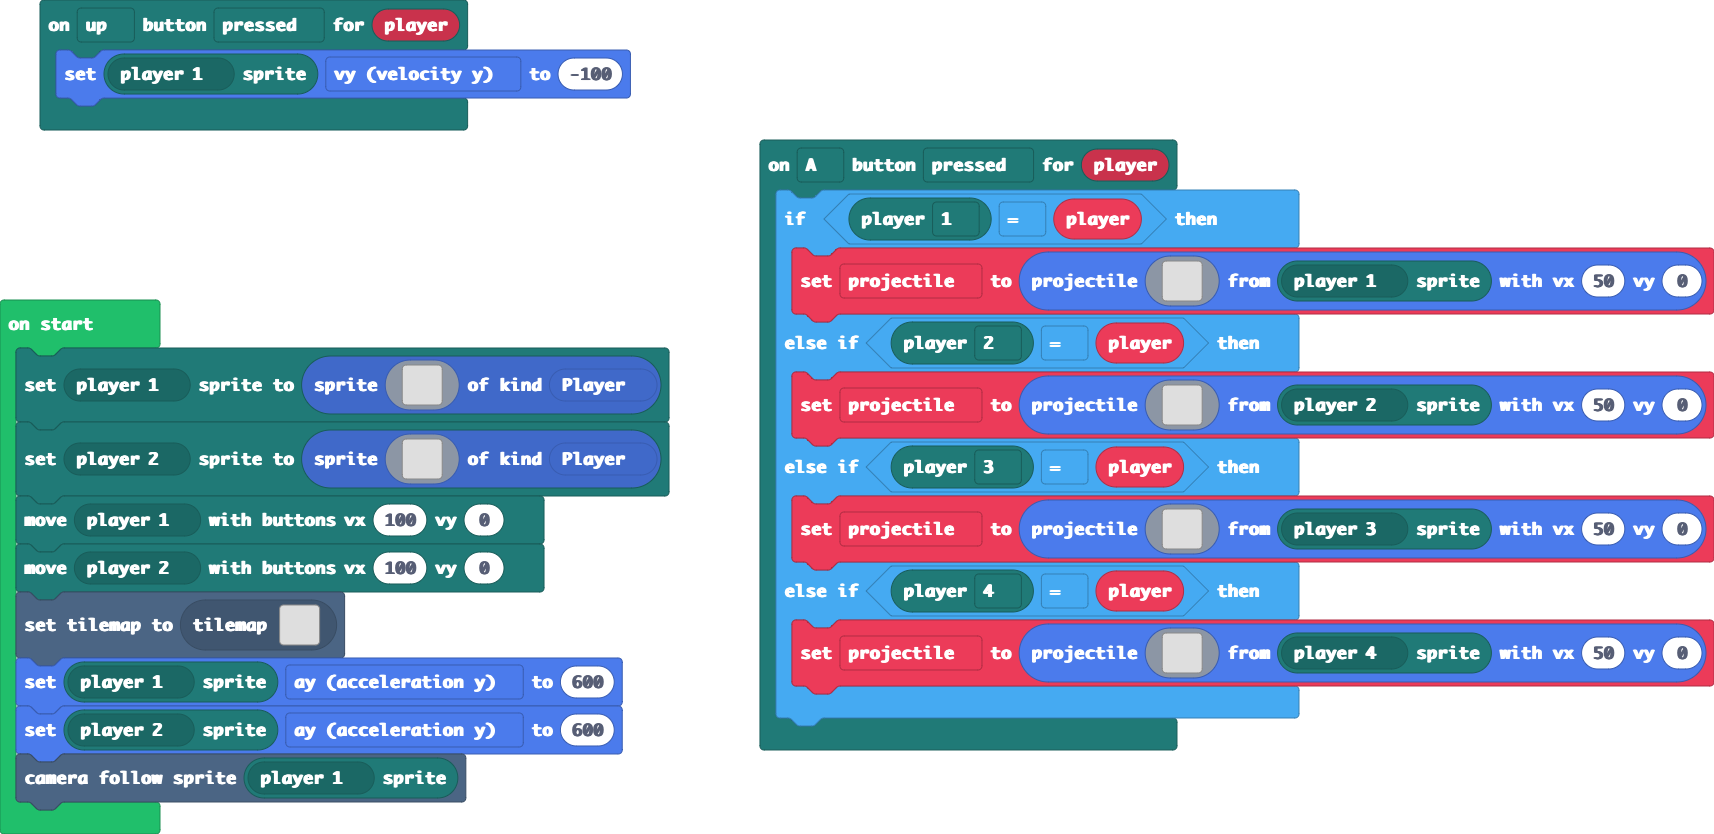
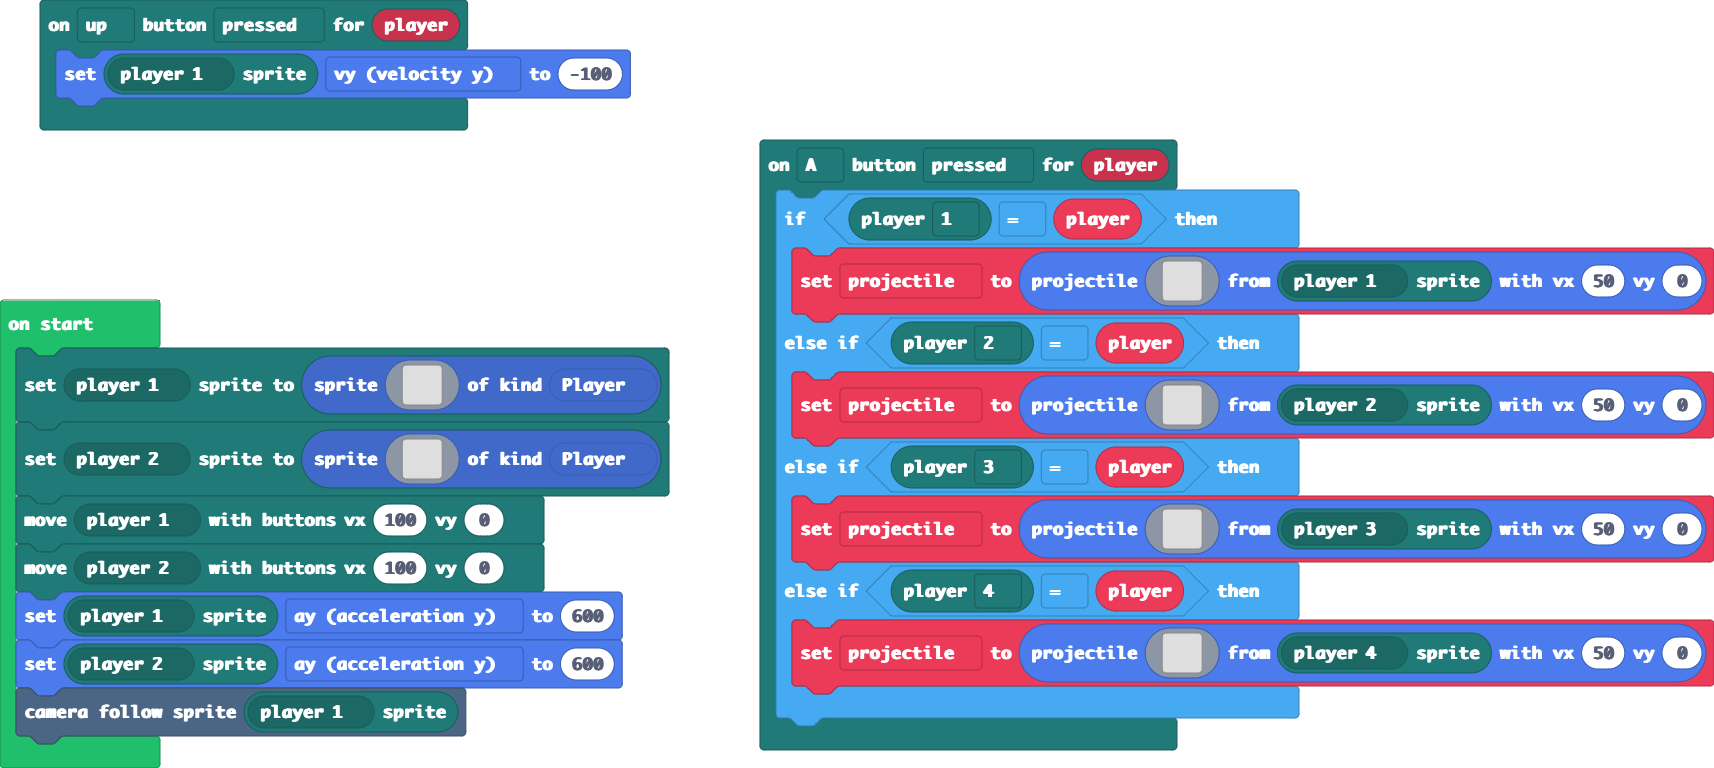
Update main.blocks, main.ts, tilemap.g.jres, tilemap.g.ts

diff --git a/tilemap.g.ts b/tilemap.g.ts
@@ -32,6 +32,25 @@ namespace myTiles {
 .....................................................................
 2222222222222222222222...............................................
 `, [myTiles.transparency16,sprites.dungeon.greenOuterNorthWest,sprites.dungeon.greenOuterNorth0,sprites.dungeon.greenOuterNorthEast], TileScale.Sixteen);
+            case "level2":
+            case "level2":return tiles.createTilemap(hex`1000100000000000000000000000000000000000000000000000000000000000000000000000000000000000000000000000000000000000000000000000000000000000000000000000000000000000000000000000000000000000000000000000000000000000000000000000000000000000000000000000000000000000000000000000000000000000000000000000000000000000000000000000000000000000000000000000000000000000000000000000000000000000000000000000000000000000000000000000000000000000000000000000000000000000000000000000000000000000000000000000000000000000000000000000000000000000`, img`
+. . . . . . . . . . . . . . . . 
+. . . . . . . . . . . . . . . . 
+. . . . . . . . . . . . . . . . 
+. . . . . . . . . . . . . . . . 
+. . . . . . . . . . . . . . . . 
+. . . . . . . . . . . . . . . . 
+. . . . . . . . . . . . . . . . 
+. . . . . . . . . . . . . . . . 
+. . . . . . . . . . . . . . . . 
+. . . . . . . . . . . . . . . . 
+. . . . . . . . . . . . . . . . 
+. . . . . . . . . . . . . . . . 
+. . . . . . . . . . . . . . . . 
+. . . . . . . . . . . . . . . . 
+. . . . . . . . . . . . . . . . 
+. . . . . . . . . . . . . . . . 
+`, [myTiles.transparency16], TileScale.Sixteen);
         }
         return null;
     })

diff --git a/main.ts b/main.ts
@@ -119,7 +119,6 @@ mp.setPlayerSprite(mp.playerSelector(mp.PlayerNumber.Two), sprites.create(img`
     `, SpriteKind.Player))
 mp.moveWithButtons(mp.playerSelector(mp.PlayerNumber.One), 100, 0)
 mp.moveWithButtons(mp.playerSelector(mp.PlayerNumber.Two), 100, 0)
-tiles.setCurrentTilemap(tilemap`level1`)
 mp.getPlayerSprite(mp.playerSelector(mp.PlayerNumber.One)).ay = 600
 mp.getPlayerSprite(mp.playerSelector(mp.PlayerNumber.Two)).ay = 600
 scene.cameraFollowSprite(mp.getPlayerSprite(mp.playerSelector(mp.PlayerNumber.One)))
